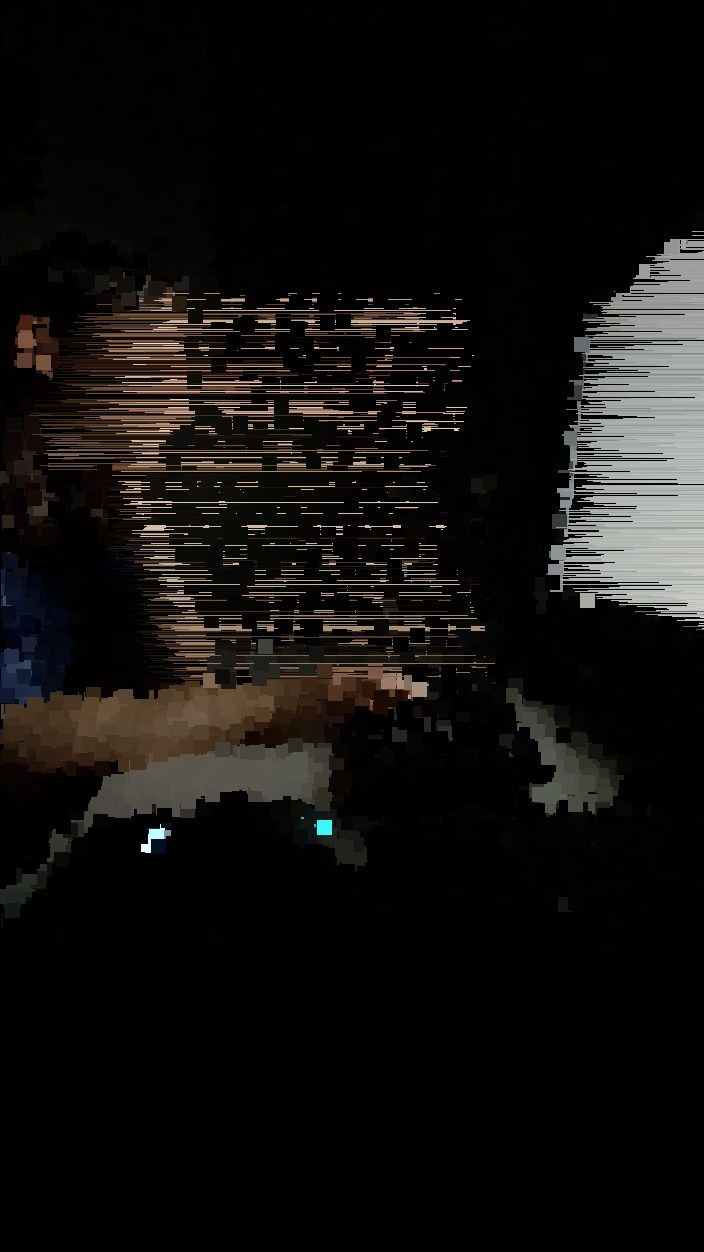
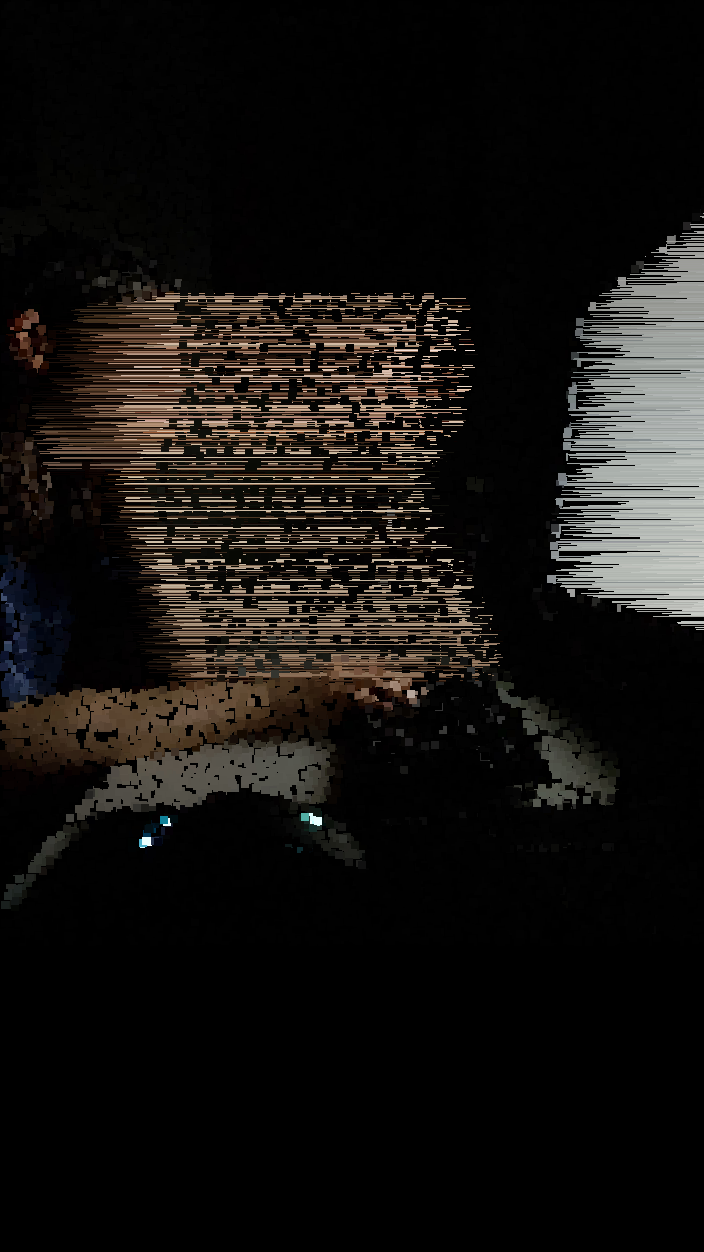
edited piece 2

Changed region(s): [[0.0, 0.2181, 0.875, 0.6853], [0.7812, 0.1558, 1.0, 0.4984], [0.0, 0.6853, 0.0625, 0.7165]]

diff --git a/sketch.js b/sketch.js
@@ -29,7 +29,7 @@ function draw () {
     let pix = sourceImg.get(x, y);
     let mask = maskImg.get(x, y);
     let pointSize = 300;
-    let halfSize = 15;
+    let halfSize = 8;
     let smallSize = 1
     fill(pix);
     if(mask[0] > 128) {
